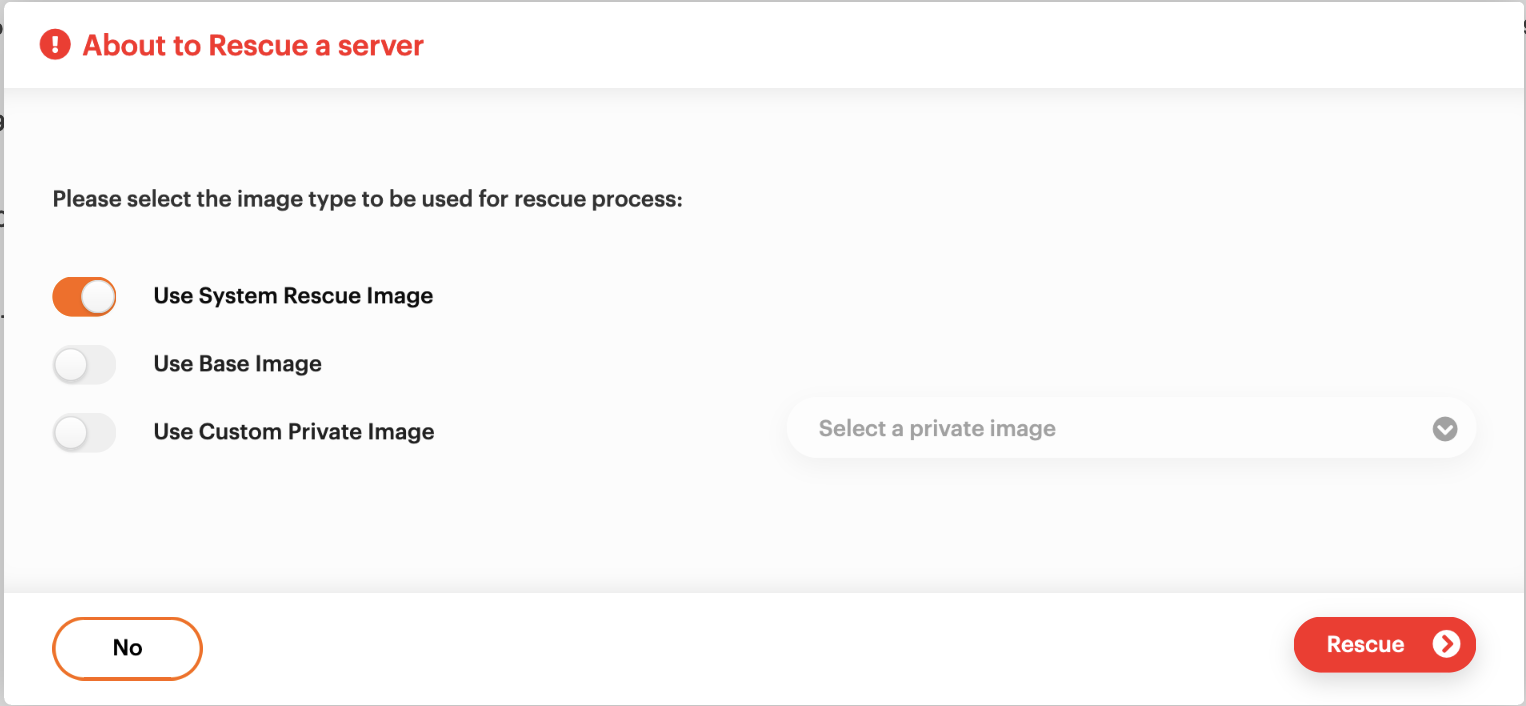
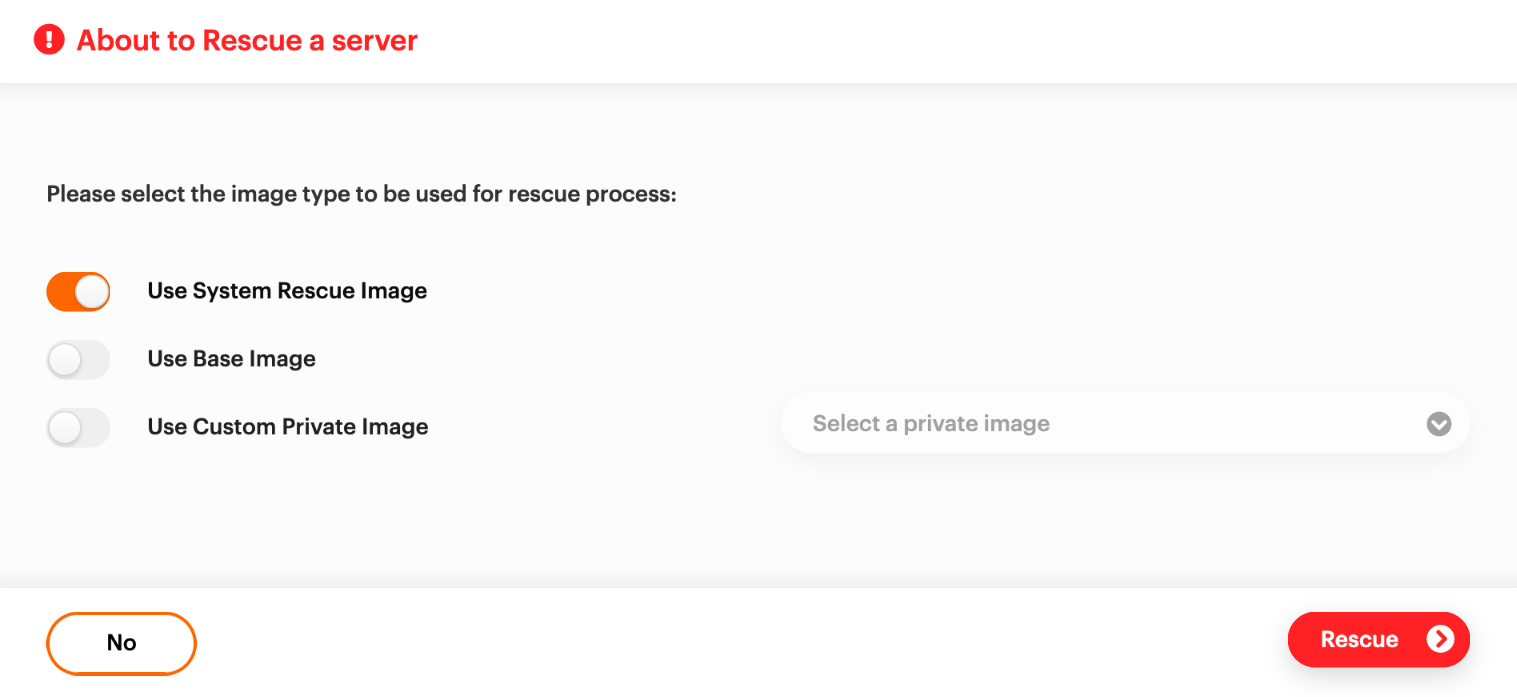
fix: Update how-to guide in rescue mode
* Fix the prose to be in line with the screenshot.
* Trim the screenshot so that it loses its rounded corners.

Fixes: #174

diff --git a/docs/howto/openstack/nova/rescue-server.md b/docs/howto/openstack/nova/rescue-server.md
@@ -38,13 +38,12 @@ first](../../getting-started/enable-openstack-cli.md).
     highlighted.](assets/rescue-server/03-menu-list.png)
 
     Once selected, the rescue dialog appears.
+    Leave the default option, _Use System Rescue Image_.
 
-    Click _No_ to cancel or _Yes, Rescue_ to proceed.
+    Click _No_ to cancel or _Rescue_ to proceed.
 
-    ![About to rescue a server, showing details about the Server name,
-    UUID and region with a question to confirm the rescue with "Yes,
-    Rescue" or cancel it with
-    "No".](assets/rescue-server/04-rescue-button.png)
+    ![About to rescue a server, showing details with the default option
+    "Use System Rescue Image".](assets/rescue-server/04-rescue-button.png)
 
     When a server has been switched to rescue mode, its status icon
     appears with an exclamation mark:
